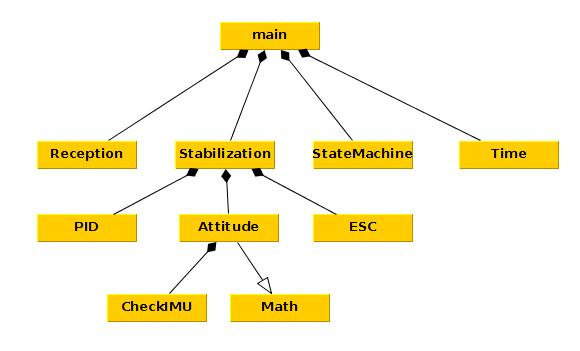
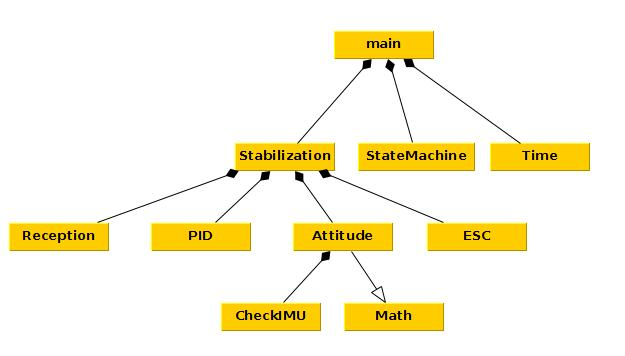
Refactoring: move Rx object into Stabilization class

diff --git a/src/StateMachine.cpp b/src/StateMachine.cpp
@@ -9,7 +9,7 @@ void *initState(const float) {
     while (!stabilization.AreAttitudeOffsetsComputed())
         stabilization.AttitudeComputeOffsets();
 
-    if (Rx.GetFlyingMode() != disarmed)
+    if (stabilization.GetFlyingMode() != disarmed)
         return (void *)&initState;
     else if (stabilization.AreAttitudeOffsetsComputed())
         return (void *)&startingState;
@@ -18,10 +18,9 @@ void *initState(const float) {
 }
 void *startingState(const float) {
     stabilization.Idle();
-    stateMachine.ActivateBuzzer(500);
-    int state = Rx.GetFlyingMode();
+    int state = stabilization.GetFlyingMode();
     delay(500);
-    if (state != Rx.GetFlyingMode()) // Check it was not a transitory switch state
+    if (state != stabilization.GetFlyingMode()) // Check it was not a transitory switch state
         return (void *)&startingState;
     if ((state == angle) || (state == accro)) {
         Serial.println(F("stateMachine.state != disarmed MODE"));
@@ -35,20 +34,18 @@ void *startingState(const float) {
 }
 
 void *angleState(const float _loopTimeSec) {
-    uint8_t throttle =
-            Rx.GetThrottle(stabilization.GetESCsMinPower(), stabilization.GetESCsMaxThrottle());
-    if (throttle > stabilization.GetESCIdleThreshold()) {
+    if (!stabilization.IsThrottleIdle()) {
         stateMachine.throttleWasHigh = true;
-        stabilization.Angle(_loopTimeSec, Rx, throttle);
+        stabilization.Angle(_loopTimeSec);
 
         // Allow to change flying mode during flight
-        if (Rx.GetFlyingMode() == accro) {
+        if (stabilization.GetFlyingMode() == accro) {
             Serial.println(F("Flying mode changed from angle to accro"));
             return (void *)&accroState;
         }
     } else {
         // after 20s without pwr
-        stabilization.ResetPID(throttle);
+        stabilization.ResetPID();
         if (stateMachine.IsSafetyStateNeeded()) // Safety cut mngt: set safety cut
             return (void *)&safetyState;
     }
@@ -56,21 +53,19 @@ void *angleState(const float _loopTimeSec) {
 }
 
 void *accroState(const float _loopTimeSec) {
-    uint8_t throttle =
-            Rx.GetThrottle(stabilization.GetESCsMinPower(), stabilization.GetESCsMaxThrottle());
-    if (throttle > stabilization.GetESCIdleThreshold()) {
+    if (!stabilization.IsThrottleIdle()) {
         stateMachine.throttleWasHigh = true;
 
-        stabilization.Accro(_loopTimeSec, Rx, throttle);
+        stabilization.Accro(_loopTimeSec);
 
         // Allow to change flying mode during flight
-        if (Rx.GetFlyingMode() == angle) {
+        if (stabilization.GetFlyingMode() == angle) {
             Serial.println(F("Flying mode changed from accro to angle"));
             return (void *)&angleState;
         }
     } else {
         // after 5s without pwr
-        stabilization.ResetPID(throttle);
+        stabilization.ResetPID();
         if (stateMachine.IsSafetyStateNeeded()) // Safety cut mngt: set safety cut
             return (void *)&safetyState;
     }
@@ -79,9 +74,9 @@ void *accroState(const float _loopTimeSec) {
 
 void *safetyState(const float) {
     stabilization.Idle();
-    stateMachine.ActivateBuzzer(500);
-    Rx.GetFlyingMode();
-    if (Rx.GetFlyingMode() != disarmed) {
+    stateMachine.ActivateBuzzer(120);
+    stabilization.GetFlyingMode();
+    if (stabilization.GetFlyingMode() != disarmed) {
         stabilization.Idle();
         return (void *)&safetyState;
     } else {
@@ -91,11 +86,11 @@ void *safetyState(const float) {
 
 void *disarmedState(const float) {
     stabilization.Idle();
-    stateMachine.ActivateBuzzer(500);
-    int state = Rx.GetFlyingMode();
+    stateMachine.ActivateBuzzer(120);
+    int state = stabilization.GetFlyingMode();
     delay(500);
     // Check it was not a transitory switch state
-    if (state != Rx.GetFlyingMode())
+    if (state != stabilization.GetFlyingMode())
         return (void *)&disarmedState;
     if (state != disarmed) {
         stateMachine.throttleWasHigh = true;
@@ -116,24 +111,19 @@ void StateMachine::Init() {
 
     elapsedTime.Init(0);
     timeBuzzer.Init(0);
-    setBuzzer = false;
 }
 
 // Activate buzzer after x minutes of power idle
-void StateMachine::ActivateBuzzer(int _duration) {
-    if (setBuzzer) {
-        Time time;
-        time.Init(0);
-        while ((time.GetExecutionTimeMilliseconds(0)) < _duration) {
-            digitalWrite(BUZZER_PIN, HIGH);
-            delayMicroseconds(1800);
-            digitalWrite(BUZZER_PIN, LOW);
-            delay(10);
-            wdt_reset();
-            Serial.println(F("BUZZZZZ"));
-        }
-    } else if (timeBuzzer.GetExecutionTimeSeconds(0) > 120) { // Activate buzzer after 2 minutes
-        setBuzzer = true;
+void StateMachine::ActivateBuzzer(int _durationSec) {
+    if (timeBuzzer.GetExecutionTimeSeconds(0) > _durationSec) {
+        while (true) {
+           digitalWrite(BUZZER_PIN, HIGH);
+           delayMicroseconds(1800); // Dirty, it would be better to use timer interrupt
+           digitalWrite(BUZZER_PIN, LOW);
+           delay(10);
+           wdt_reset();
+           Serial.println(F("BUZZZZZ"));
+      }
     }
 }
 

diff --git a/src/Stabilization.cpp b/src/Stabilization.cpp
@@ -1,7 +1,7 @@
 #include <avr/wdt.h>
 #include "Stabilization.h"
 
-void Stabilization::Init(Reception &_Rx) {
+void Stabilization::Init() {
     // ESC
     ESCs.Init();
 
@@ -9,7 +9,7 @@ void Stabilization::Init(Reception &_Rx) {
     Wire.begin();
     Wire.setClock(400000L); // Communication with MPU-6050 at 400KHz
 
-    while (!_Rx.IsReady()) {
+    while (!Rx.IsReady()) {
         Serial.println(F("Rx not ready, try again, please wait. "));
         ESCs.Idle();
         wdt_reset();
@@ -51,44 +51,44 @@ void Stabilization::Init(Reception &_Rx) {
     yawSpeedPID_Accro.SetGains(yawSpeedPIDParams);
 }
 
-void Stabilization::Accro(float _loopTimeSec, Reception &_Rx, const int _throttle) {
+void Stabilization::Accro(float _loopTimeSec) {
     // Get current attitude (roll, pitch, yaw speeds)
     attitude.GetCurrPos(posCurr, speedCurr, _loopTimeSec);
 
     // Compute new speed commandi for each axis
-    rollMotorPwr = rollSpeedPID_Accro.ComputeCorrection(_Rx.GetAileronsSpeed(), speedCurr[0],
+    rollMotorPwr = rollSpeedPID_Accro.ComputeCorrection(Rx.GetAileronsSpeed(), speedCurr[0],
                                                         _loopTimeSec);
-    pitchMotorPwr = pitchSpeedPID_Accro.ComputeCorrection(_Rx.GetElevatorSpeed(), speedCurr[1],
+    pitchMotorPwr = pitchSpeedPID_Accro.ComputeCorrection(Rx.GetElevatorSpeed(), speedCurr[1],
                                                           _loopTimeSec);
-    yawMotorPwr = yawSpeedPID_Accro.ComputeCorrection(_Rx.GetRudder(), speedCurr[2], _loopTimeSec);
+    yawMotorPwr = yawSpeedPID_Accro.ComputeCorrection(Rx.GetRudder(), speedCurr[2], _loopTimeSec);
 
     // Apply computed speed command to motors
-    SetMotorsPwrXConfig(_throttle);
+    SetMotorsPwrXConfig();
 }
 
-void Stabilization::Angle(float _loopTimeSec, Reception &_Rx, const int _throttle) {
+void Stabilization::Angle(float _loopTimeSec) {
     // Get current attitude (roll, pitch, yaw angles and speeds)
     attitude.GetCurrPos(posCurr, speedCurr, _loopTimeSec);
 
     // Compute roll position command
     rollPosCmd =
-            rollPosPID_Angle.ComputeCorrection(_Rx.GetAileronsAngle(), posCurr[0], _loopTimeSec);
+            rollPosPID_Angle.ComputeCorrection(Rx.GetAileronsAngle(), posCurr[0], _loopTimeSec);
 
     // Compute roll speed command
     rollMotorPwr = rollSpeedPID_Angle.ComputeCorrection(rollPosCmd, speedCurr[0], _loopTimeSec);
 
     // Compute pitch position command
     pitchPosCmd =
-            pitchPosPID_Angle.ComputeCorrection(_Rx.GetElevatorAngle(), posCurr[1], _loopTimeSec);
+            pitchPosPID_Angle.ComputeCorrection(Rx.GetElevatorAngle(), posCurr[1], _loopTimeSec);
 
     // Compute pitch speed command
     pitchMotorPwr = pitchSpeedPID_Angle.ComputeCorrection(pitchPosCmd, speedCurr[1], _loopTimeSec);
 
     // Compute yaw speed command
-    yawMotorPwr = yawSpeedPID_Angle.ComputeCorrection(_Rx.GetRudder(), speedCurr[2], _loopTimeSec);
+    yawMotorPwr = yawSpeedPID_Angle.ComputeCorrection(Rx.GetRudder(), speedCurr[2], _loopTimeSec);
 
     // Apply computed command to motors
-    SetMotorsPwrXConfig(_throttle);
+    SetMotorsPwrXConfig();
 }
 
 void Stabilization::PrintAccroModeParameters() {
@@ -117,7 +117,7 @@ void Stabilization::PrintAngleModeParameters() {
     Serial.println(mixing);
 }
 
-void Stabilization::ResetPID(const int _throttle) {
+void Stabilization::ResetPID() {
     pitchMotorPwr = rollMotorPwr = yawMotorPwr = 0; // No correction if throttle put to min
     rollPosPID_Angle.Reset();
     pitchPosPID_Angle.Reset();
@@ -128,7 +128,7 @@ void Stabilization::ResetPID(const int _throttle) {
     pitchSpeedPID_Accro.Reset();
     yawSpeedPID_Accro.Reset();
 
-    SetMotorsPwrXConfig(_throttle);
+    SetMotorsPwrXConfig();
 }
 
 //    X configuration:
@@ -137,15 +137,16 @@ void Stabilization::ResetPID(const int _throttle) {
 //         /  \
 //     ESC3   ESC2(CCW)
 //
-void Stabilization::SetMotorsPwrXConfig(const int _throttle) {
+void Stabilization::SetMotorsPwrXConfig() {
+    int throttle = GetThrottle();
     ESCs.write(ESC0,
-               _throttle - pitchMotorPwr * mixing + rollMotorPwr * mixing - yawMotorPwr * mixing);
+               throttle - pitchMotorPwr * mixing + rollMotorPwr * mixing - yawMotorPwr * mixing);
     ESCs.write(ESC1,
-               _throttle - pitchMotorPwr * mixing - rollMotorPwr * mixing + yawMotorPwr * mixing);
+               throttle - pitchMotorPwr * mixing - rollMotorPwr * mixing + yawMotorPwr * mixing);
     ESCs.write(ESC2,
-               _throttle + pitchMotorPwr * mixing - rollMotorPwr * mixing - yawMotorPwr * mixing);
+               throttle + pitchMotorPwr * mixing - rollMotorPwr * mixing - yawMotorPwr * mixing);
     ESCs.write(ESC3,
-               _throttle + pitchMotorPwr * mixing + rollMotorPwr * mixing + yawMotorPwr * mixing);
+               throttle + pitchMotorPwr * mixing + rollMotorPwr * mixing + yawMotorPwr * mixing);
 }
 
 void Stabilization::Idle() {

diff --git a/src/Stabilization.h b/src/Stabilization.h
@@ -36,16 +36,17 @@ class Stabilization {
     PID rollSpeedPID_Angle, pitchSpeedPID_Angle, yawSpeedPID_Angle;
     PID rollSpeedPID_Accro, pitchSpeedPID_Accro, yawSpeedPID_Accro;
     Attitude attitude;
+    Reception Rx;
 
   public:
-    void SetMotorsPwrXConfig(const int _throttle);
-    void Init(Reception &_Rx);
+    void SetMotorsPwrXConfig();
+    void Init();
     void Idle();
-    void Accro(float _loopTimeSec, Reception &_Rx, const int _throttle);
-    void Angle(float _loopTimeSec, Reception &_Rx, const int _throttle);
+    void Accro(float _loopTimeSec);
+    void Angle(float _loopTimeSec);
     void PrintAccroModeParameters();
     void PrintAngleModeParameters();
-    void ResetPID(const int _throttle);
+    void ResetPID();
     void SetESCsPWM(volatile uint16_t *TCNTn, volatile uint16_t *OCRnA) {
         ESCs.SetPWM_f5(TCNTn, OCRnA);
     }
@@ -69,6 +70,21 @@ class Stabilization {
     }
     void AttitudeComputeOffsets() {
         attitude.ComputeOffsets();
+    }
+    inline void ComputeRxImpulsionWidth()
+    {
+      Rx.GetWidth();
+    }
+    inline int GetFlyingMode()
+    {
+      return Rx.GetFlyingMode();
+    }
+    inline int GetThrottle() {
+        return Rx.GetThrottle(GetESCsMinPower(), GetESCsMaxThrottle());
+    }
+
+    bool IsThrottleIdle() {
+        return GetThrottle() < GetESCIdleThreshold();
     }
 };
 #endif // STABILIZATION_H_

diff --git a/src/main.cpp b/src/main.cpp
@@ -7,7 +7,7 @@
 #include "StateMachine.h"
 
 Time time;
-Reception Rx;
+
 Stabilization stabilization;
 StateMachine stateMachine;
 
@@ -36,7 +36,7 @@ void InitTimer1() {
 
 // Interrupt to decode cppm signal received from RC transmitter
 void RxInterrupt() {
-    Rx.GetWidth();
+    stabilization.ComputeRxImpulsionWidth();
 }
 
 void PrintConfig() {
@@ -67,7 +67,7 @@ void setup() {
 
     Serial.begin(230400); // Console print: initialize serial communication
 
-    stabilization.Init(Rx);
+    stabilization.Init();
 
     time.InitAllCounters();
 
@@ -93,11 +93,6 @@ void ComputeMeanLoopTime(const float _loopTimeSec, uint16_t &_loopNb) {
     }
 }
 
-bool IsThrottleIdle() {
-    int throttle = Rx.GetThrottle(stabilization.GetESCsMinPower(), stabilization.GetESCsMaxThrottle());
-    return throttle < stabilization.GetESCIdleThreshold();
-}
-
 // Main loop
 void loop() {
     float loopTimeSec = 0.0;
@@ -110,9 +105,9 @@ void loop() {
     statefunc = (StateFunc)(*statefunc)(loopTimeSec);
 
     // Compute mean loop time and complementary filter time constant
-    int flyingMode = Rx.GetFlyingMode();
+    int flyingMode = stabilization.GetFlyingMode();
     if ((flyingMode == angle) || (flyingMode == accro)){
-        if (!IsThrottleIdle()) {
+        if (!stabilization.IsThrottleIdle()) {
             ComputeMeanLoopTime(loopTimeSec, loopNb);
         }
     }

diff --git a/src/Reception.h b/src/Reception.h
@@ -52,18 +52,18 @@ class Reception {
     }
 
     // Angle Mode:
-    inline float GetAileronsAngle() {
+    inline int GetAileronsAngle() {
         return -(map(cPPM[0], 1080, 1900, -MAX_ANGLE, MAX_ANGLE));
     }
-    inline float GetElevatorAngle() {
+    inline int GetElevatorAngle() {
         return (map(cPPM[1], 1080, 1900, -MAX_ANGLE, MAX_ANGLE));
     }
 
     // Accro mode:
-    inline float GetAileronsSpeed() {
+    inline int GetAileronsSpeed() {
         return -(map(cPPM[0], 1080, 1900, -MAX_ROT_SPEED, MAX_ROT_SPEED));
     }
-    inline float GetElevatorSpeed() {
+    inline int GetElevatorSpeed() {
         return (map(cPPM[1], 1080, 1900, -MAX_ROT_SPEED, MAX_ROT_SPEED));
     }
     inline int GetThrottle(const int _minPower, const int _maxThrottle) {
@@ -100,7 +100,7 @@ class Reception {
                 cPPM[channel] = PWM_Width;
         }
 
-        if (PWM_Width > 4000) { // If delay more than 4ms
+        if (PWM_Width > 4000) { // If delay more than 4ms, it is a new sequence
             channel = 0;
             initialized = true;
         } else if ((channel + 1) < CHANNELS_NB) {

diff --git a/src/StateMachine.h b/src/StateMachine.h
@@ -5,7 +5,6 @@
 #include "Reception.h"
 #include "Stabilization.h"
 
-extern Reception Rx;
 extern Stabilization stabilization;
 
 // States functions
@@ -23,7 +22,6 @@ class StateMachine {
     const int delayThresholdSec = 5; // (s)
     Time elapsedTime;
     Time timeBuzzer;
-    bool setBuzzer = false;
 
   public:
     bool throttleWasHigh = true;
